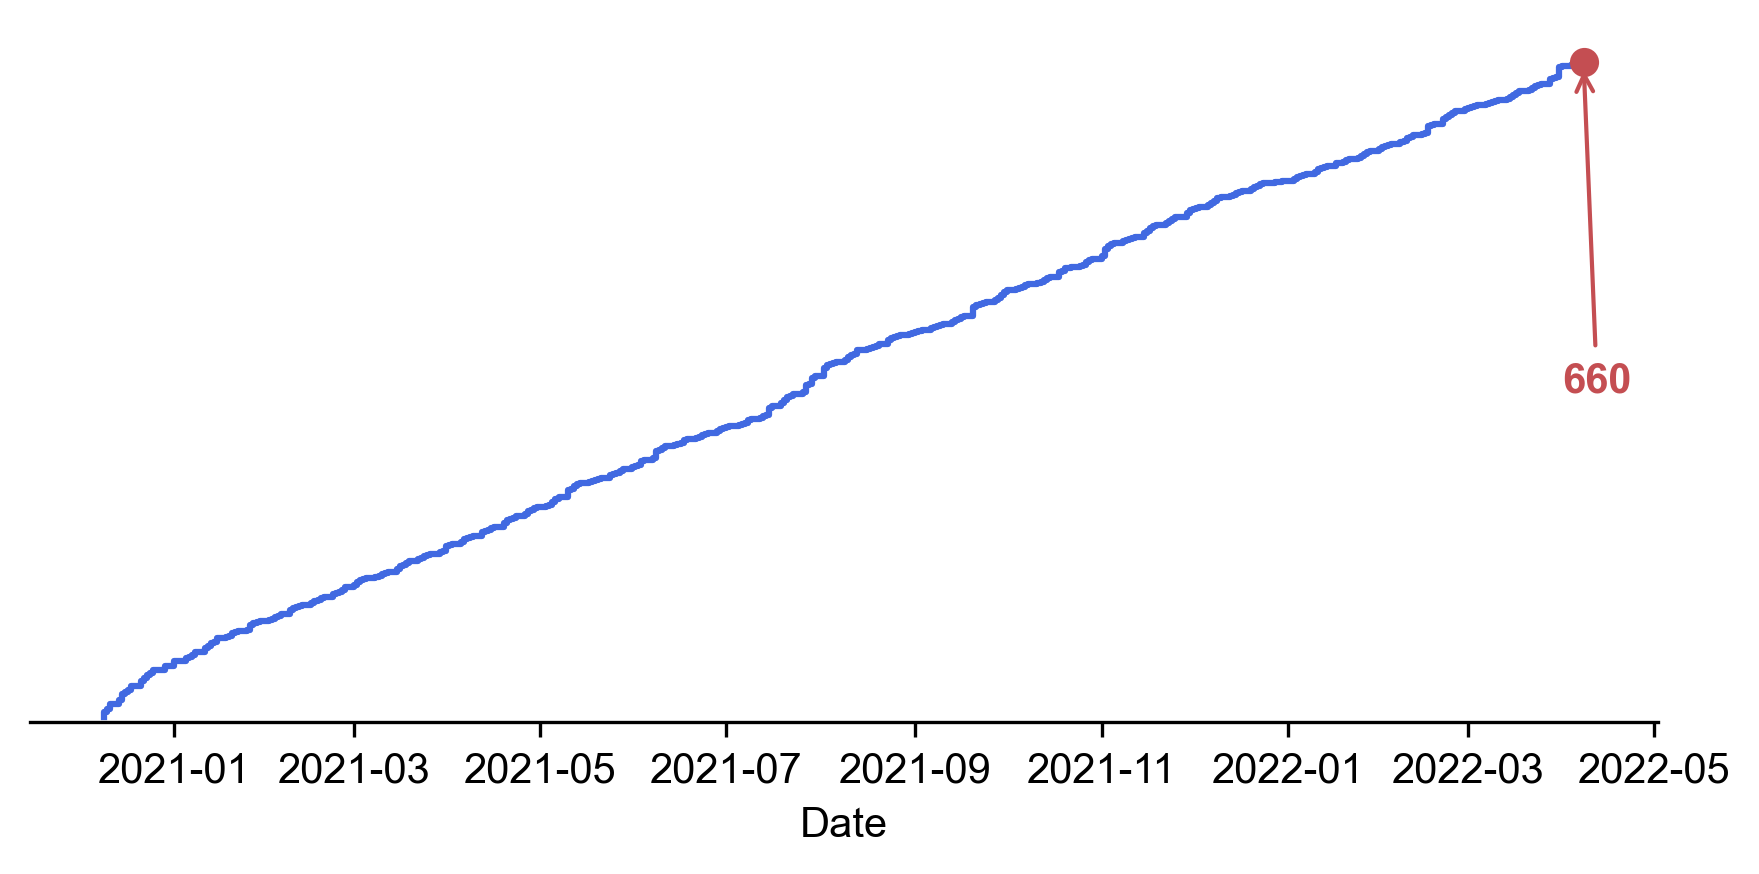
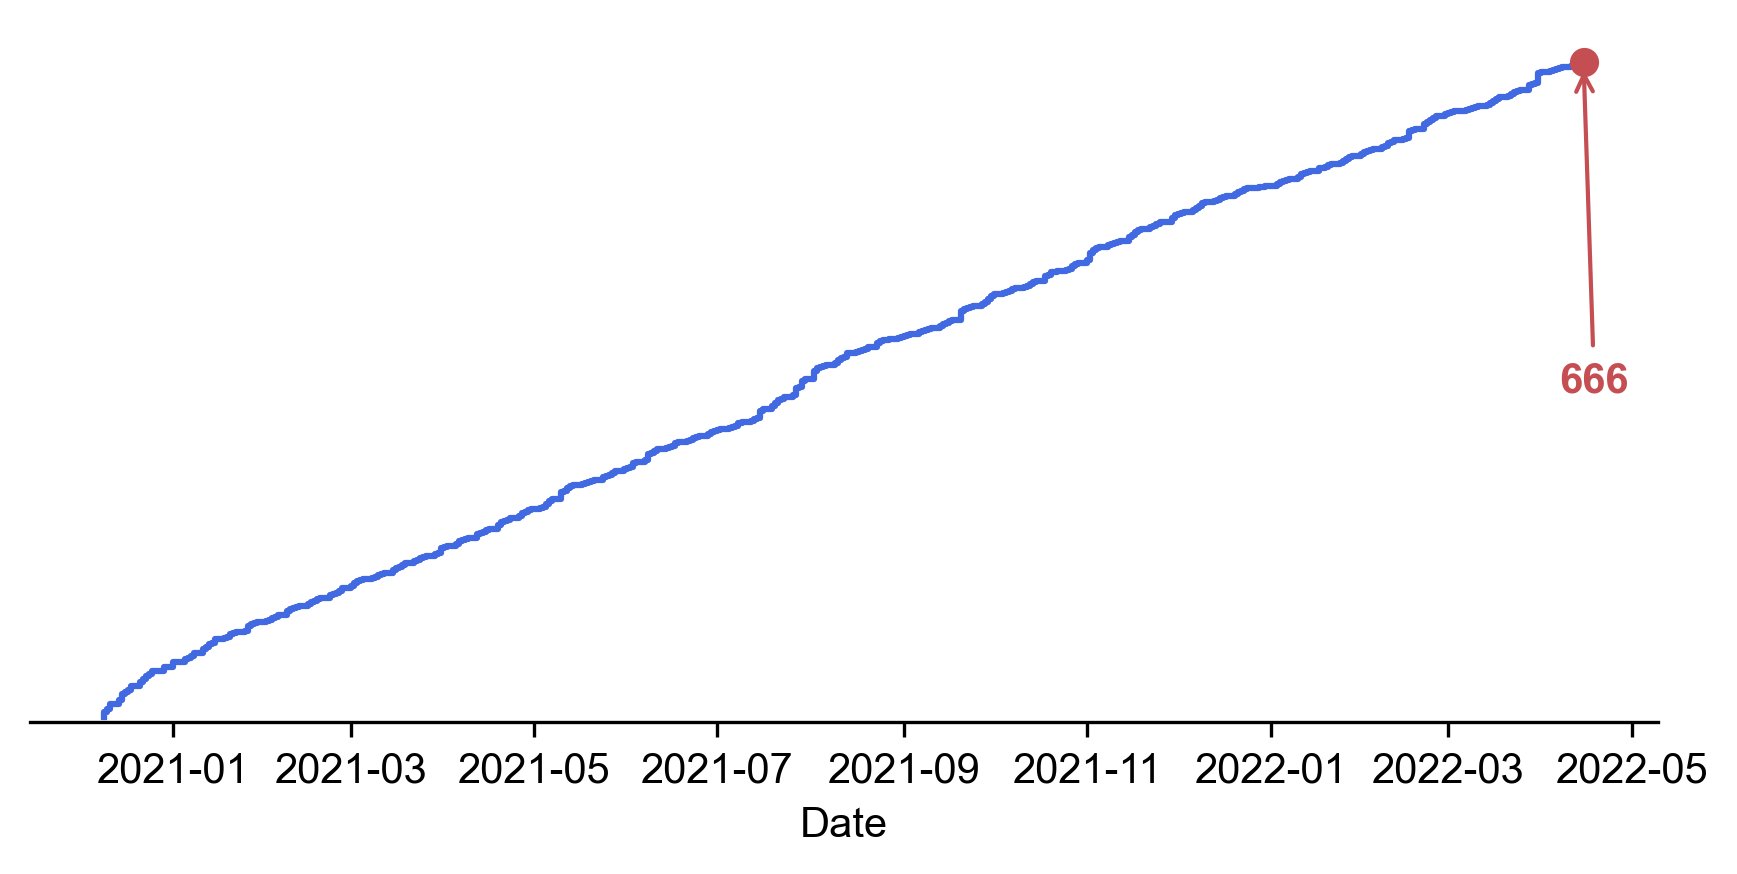
2022-04-16

diff --git a/2022/04/AstroPH-2022-04.md b/2022/04/AstroPH-2022-04.md
@@ -118,3 +118,53 @@
 
 ## 2022-04-11
 
+1. [An ultra-deep multi-band VLA survey of the faint radio sky (COSMOS-XS): New constraints on the cosmic star formation history](https://arxiv.org/abs/2204.04167)
+
+   > Galaxy, Cosmology, Star Formation
+
+   使用多波段`COSMOS-XS`巡天的$3\,\rm GHz$的数据，推断`恒星形成星系, SFG`的射电`光度函数`。发现红移到$z\sim4.6$的1300个`SFG`的光度有强烈的红移演化趋势。拟合恒星形成率密度`SFRD`，发现其上升直到$z\sim1.8$，随后更快下降。
+
+   <img src="Figures/image-20220411184433579.png" alt="image-20220411184433579" style="zoom:50%;" />
+
+## 2022-04-12
+
+1. [The Northern Cross Fast Radio Burst project - II. Monitoring of repeating FRB 20180916B, 20181030A, 20200120E and 20201124A](https://arxiv.org/abs/2204.05050)
+
+   > Fast Radio Burst
+
+   使用`Medicina Northern Cross radio telescope`在$408\,\rm MHz$观测四个重复暴19个月，探测到`180916`的三个爆发，均在周期预测期间探测到。没有探测到另外三个FRB的爆发，使用CHIME的事件率估算这台望远镜的事件率，`201124`应该是$1/hr$，正好没看到。
+
+## 2022-04-13
+
+1. [Dynamical characterization of galaxies up to z∼7](https://arxiv.org/abs/2204.05325)
+
+   > Galaxy, Dynamics
+
+   描述$z\sim7$的星系动力学状态对于约束早期宇宙中`mass assembly`的驱动机制至关重要。但是目前观测数据的质量不足以进行可靠的动力学分析。通过`SERRA`宇宙学模拟的$z\sim6-7$星系的`CII`辐射，包括了盘星系到合并星系等一系列动力学状态。
+
+   模拟ALMA对这些数据的观测，并使用文献中的运动学分类方法。几乎没有分辨率的观测无法对星系动力学分类，基于`moment maps`的分析需要高分辨率和信噪比，在目前的数据中只有少数明亮星系满足条件。文章提出`PVsplit`对位置-速度图中的不对称性和形态特征进行量化，可以预测一个星系是盘星系还是并和星系，需要观测信噪比大于10。
+
+## 2022-04-14
+
+1. [A High-Time Resolution Search for Compact Objects using Fast Radio Burst Gravitational Lens Interferometry with CHIME/FRB](https://arxiv.org/abs/2204.06014)
+
+   > Fast Radio Burst, Gravitational Lensing
+
+   引力透镜可以产生多个背景源的图像，像`爱因斯坦十字`。对于FRB，引力透镜产生的多个相似形态的爆发，电场相位相同，但是会有一定的延迟。从172个CHIME的FRB事件100ms长的基带数据中搜索`相同电场波形的重复`数据，时间分辨率是$1.25\,\rm ns$，可以搜索$10^{-4}-10^4\,\rm M_\odot$的引力透镜信号，但并没有有效的引力透镜信号。
+
+2. [Constraining Primordial Black Holes using Fast Radio Burst Gravitational-Lens Interferometry with CHIME/FRB](https://arxiv.org/abs/2204.06001)
+
+   > Fast Radio Burst, Black Hole
+
+   上一篇文章的延续，由于在172个FRB事件中没有探测到引力透镜事件，约束黑洞和暗物质的质量。
+
+## 2022-04-15
+
+1. [Long-term evolution of multimass rotating star clusters](https://arxiv.org/abs/2204.06578)
+
+   > Stellar, Cluster, Dynamics, N-body
+
+   N体模拟不同初始旋转程度的星团的演化。结果表明，旋转速度与恒星质量有关，大质量恒星旋转更快；质量分离和能量均分都有空间各向异性的特点。
+
+## 2022-04-18
+
